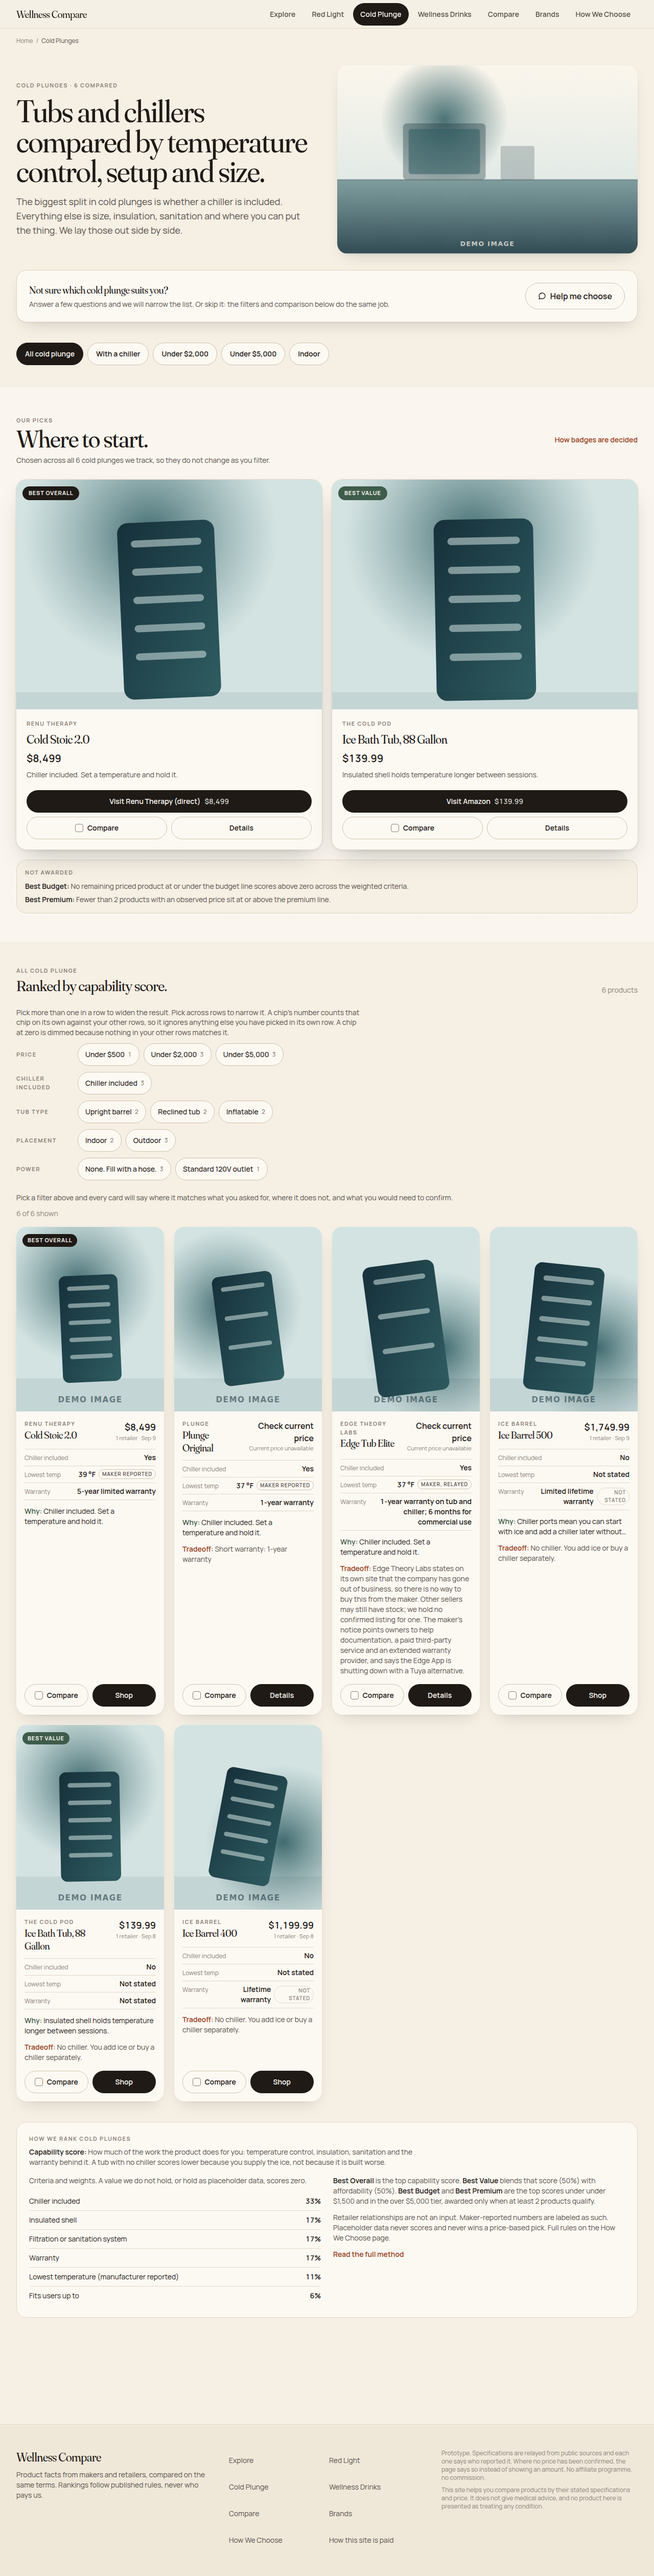
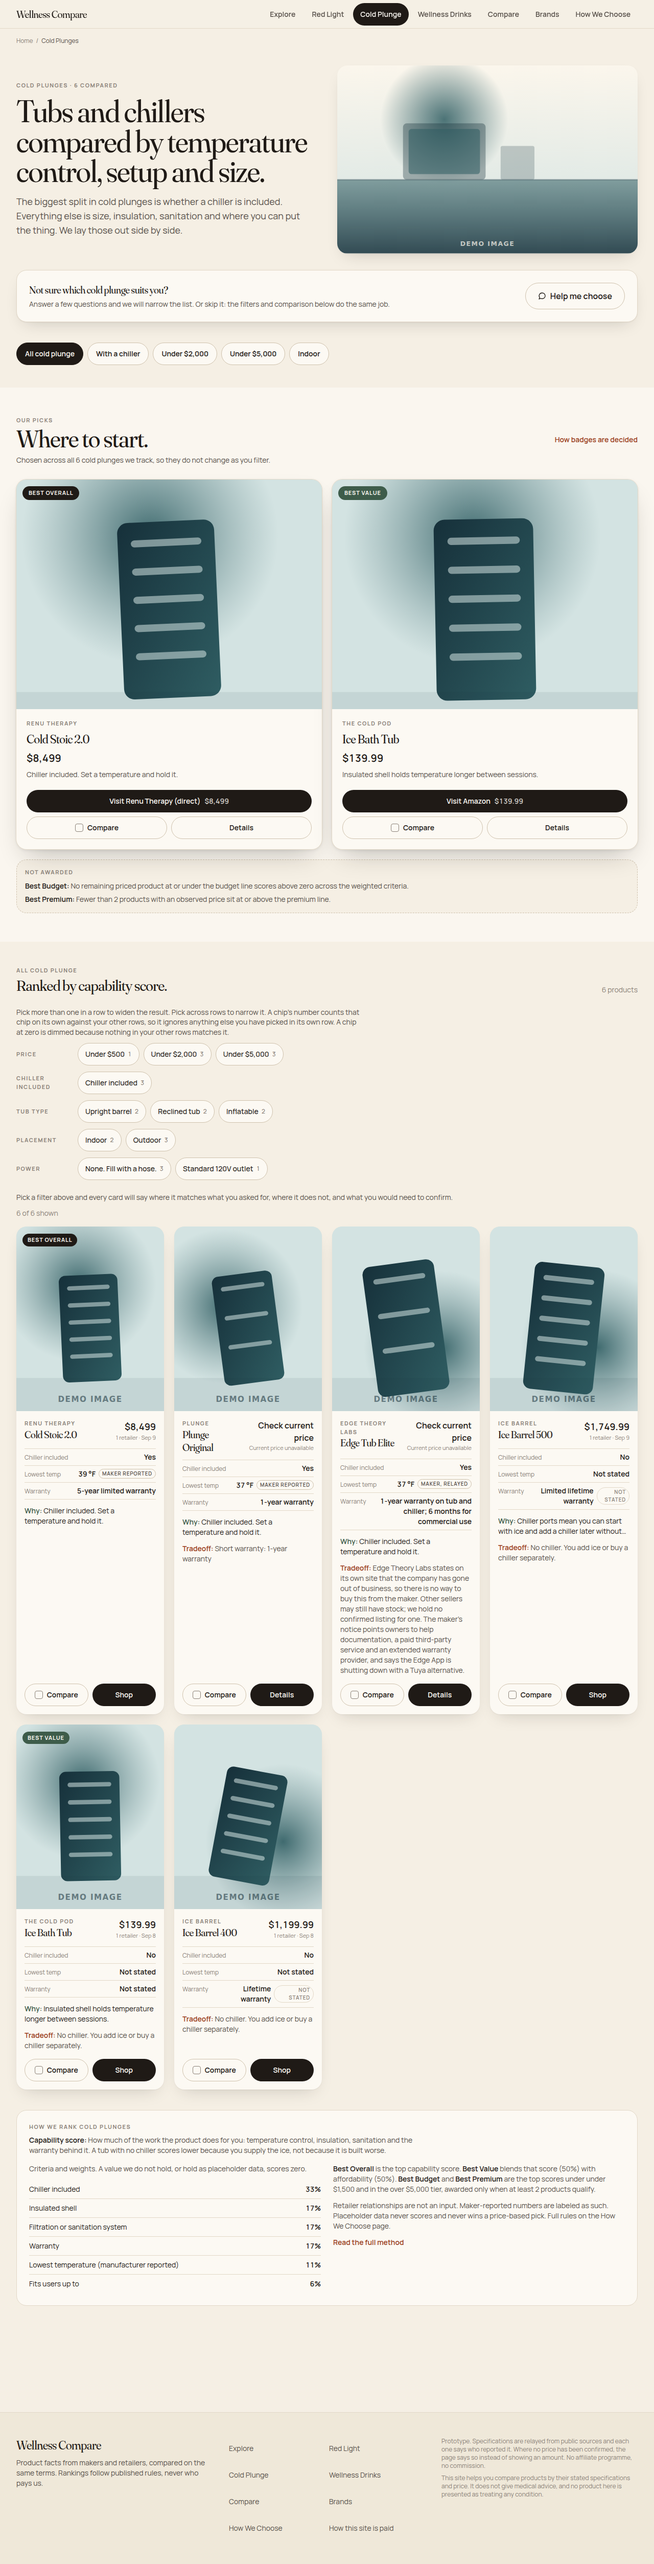
The Cold Pod's name stated a capacity the record refuses to state
"Ice Bath Tub, 88 Gallon" is now "Ice Bath Tub". The brand attribution beside it
is unchanged, so a card reads "The Cold Pod / Ice Bath Tub".

The figure was already marked and withheld everywhere it appeared: "88 gal,
disputed" on the product page and in the comparison, excluded from winner
marking, withheld from filtering and scoring, with the sources block naming the
maker's 85, its URL and the date. The name was the one place it stood
unqualified, and on a category card it stood alone, because cards show no
capacity row to qualify it.

Removing it takes away an unsupported claim and establishes nothing. It does not
adopt the 85, does not rescope this record onto the standard USA model, and
leaves the disputed 88 and both sides of its evidence exactly where they were.

Nothing else moved. Id `the-cold-pod-88` and slug `the-cold-pod-88-gallon` are
unchanged, so no URL moves. Price $139.99, its single offer, and all eight
attributes stand, as do the score of 18.5 and Best Value.

The old name is preserved in the record's own source note, with why it changed.

No stale hard-coded capacity anywhere: grepping the source, the catalogue, the
scripts and the harness for "88 Gallon", "88-gallon" and "88 gal" outside this
product's own id returns nothing. Every derived surface reads the name, so the
page title, the breadcrumb, the heading, the card, the comparison column and the
partner checklist all followed from the one edit. Verified on the built site:
[…]

diff --git a/src/__tests__/cold-pod-name.test.ts b/src/__tests__/cold-pod-name.test.ts
@@ -1,0 +1,74 @@
+import { describe, expect, it } from "vitest";
+import { coldPlunge } from "@/domain/categories";
+import { buildCompareModel } from "@/domain/compare";
+import { recommendCategory } from "@/domain/recommend";
+import { catalog, viewsFor } from "./fixtures";
+
+// The capacity is disputed and withheld everywhere a figure appears. The name
+// repeated it unqualified, in the page title, the breadcrumb, the heading and
+// the category card, where no capacity row exists to qualify it.
+//
+// Removing it establishes nothing. The 88 and its evidence stay exactly where
+// they were, and the maker's 85 is not adopted.
+
+const view = () => viewsFor("cold-plunge").find((v) => v.id === "the-cold-pod-88")!;
+
+describe("the Cold Pod name states no capacity", () => {
+  it("names the product without a figure, and keeps the brand", () => {
+    expect(view().name).toBe("Ice Bath Tub");
+    expect(view().brand.name).toBe("The Cold Pod");
+  });
+
+  it("asserts no capacity anywhere a name is rendered from", () => {
+    const v = view();
+    // The page title and the card heading are both `brand.name + name`.
+    expect(`${v.brand.name} ${v.name}`).not.toMatch(/\d+\s*(gal|gallon)/i);
+    expect(v.name).not.toMatch(/88/);
+    expect(v.description).not.toMatch(/\d+\s*gallon/i);
+  });
+
+  it("leaves the id and the slug alone, so no URL moves", () => {
+    expect(view().id).toBe("the-cold-pod-88");
+    expect(view().slug).toBe("the-cold-pod-88-gallon");
+  });
+
+  it("keeps the capacity disputed, withheld, and on the record", () => {
+    const v = view();
+    // Still disputed, so still unusable for matching and scoring.
+    expect(v.provenance["attributes.water_capacity_gal"].disputed).toBe(true);
+    expect(v.attributes.water_capacity_gal).toBeUndefined();
+    // Still 88 on the record, and still marked where it is shown.
+    const raw = catalog().products.find((p) => p.id === "the-cold-pod-88")!.attributes.water_capacity_gal;
+    expect(raw!.value).toBe(88);
+    expect(v.specs.find((s) => s.key === "water_capacity_gal")!.formatted).toMatch(/88 gal, disputed/);
+  });
+
+  it("does not adopt the maker's 85, and keeps the evidence for both", () => {
+    const note = catalog().products.find((p) => p.id === "the-cold-pod-88")!.source.note ?? "";
+    expect(note).toMatch(/85 gallons against this record's 88/);
+    expect(note).toMatch(/Ice Bath Tub, 88 Gallon/);
+    expect(view().attributes.water_capacity_gal).not.toBe(85);
+  });
+
+  it("changes nothing else: price, offers and every other attribute stand", () => {
+    const v = view();
+    expect(v.price.money?.amountMinor).toBe(13999);
+    expect(v.offers).toHaveLength(1);
+    expect(v.attributes.fits_height_in).toBe(79);
+    expect(v.attributes.insulated).toBe(true);
+    expect(v.attributes.chiller_included).toBe(false);
+    const { products } = recommendCategory(viewsFor("cold-plunge"), coldPlunge);
+    const entry = products.find((p) => p.view.id === "the-cold-pod-88")!;
+    expect(entry.score).toBe(18.5);
+    expect(entry.badges).toEqual(["best_value"]);
+  });
+
+  it("still shows the disputed figure in the comparison, marked", () => {
+    const items = recommendCategory(viewsFor("cold-plunge"), coldPlunge).products;
+    const model = buildCompareModel(items, coldPlunge);
+    const col = model.columns.findIndex((c) => c.id === "the-cold-pod-88");
+    expect(model.columns[col].name).toBe("Ice Bath Tub");
+    const row = model.groups.flatMap((g) => g.rows).find((r) => r.key === "water_capacity_gal")!;
+    expect(row.cells[col].text).toMatch(/88 gal, disputed/);
+  });
+});

diff --git a/docs/preview/index.html b/docs/preview/index.html
@@ -39,7 +39,7 @@
 <header>
   <h1>Wellness Compare</h1>
   <p>Screenshots of the built site. Every image is a real page from a production build served locally, not a mockup.</p>
-  <p class="meta">Build <code id="build">U3wLQhrGi0tYLw9sZnDhx</code>, captured <span id="captured">2026-09-11</span>. Run it yourself with <code>npm run preview</code>.</p>
+  <p class="meta">Build <code id="build">Q9dgMWto6jw5O9Cugce__</code>, captured <span id="captured">2026-09-11</span>. Run it yourself with <code>npm run preview</code>.</p>
 </header>
 
 <div class="tabs" role="group" aria-label="Viewport">

diff --git a/docs/PARTNER-SHOWCASE-CHECKLIST.md b/docs/PARTNER-SHOWCASE-CHECKLIST.md
@@ -407,7 +407,7 @@ Specifications that are missing, unsupported or relayed:
 - `tub_type` (required): source not recorded
 - `fits_height_in`: **absent from the record**
 
-### The Cold Pod Ice Bath Tub, 88 Gallon
+### The Cold Pod Ice Bath Tub
 
 | Evidence | | |
 | --- | --- | --- |
